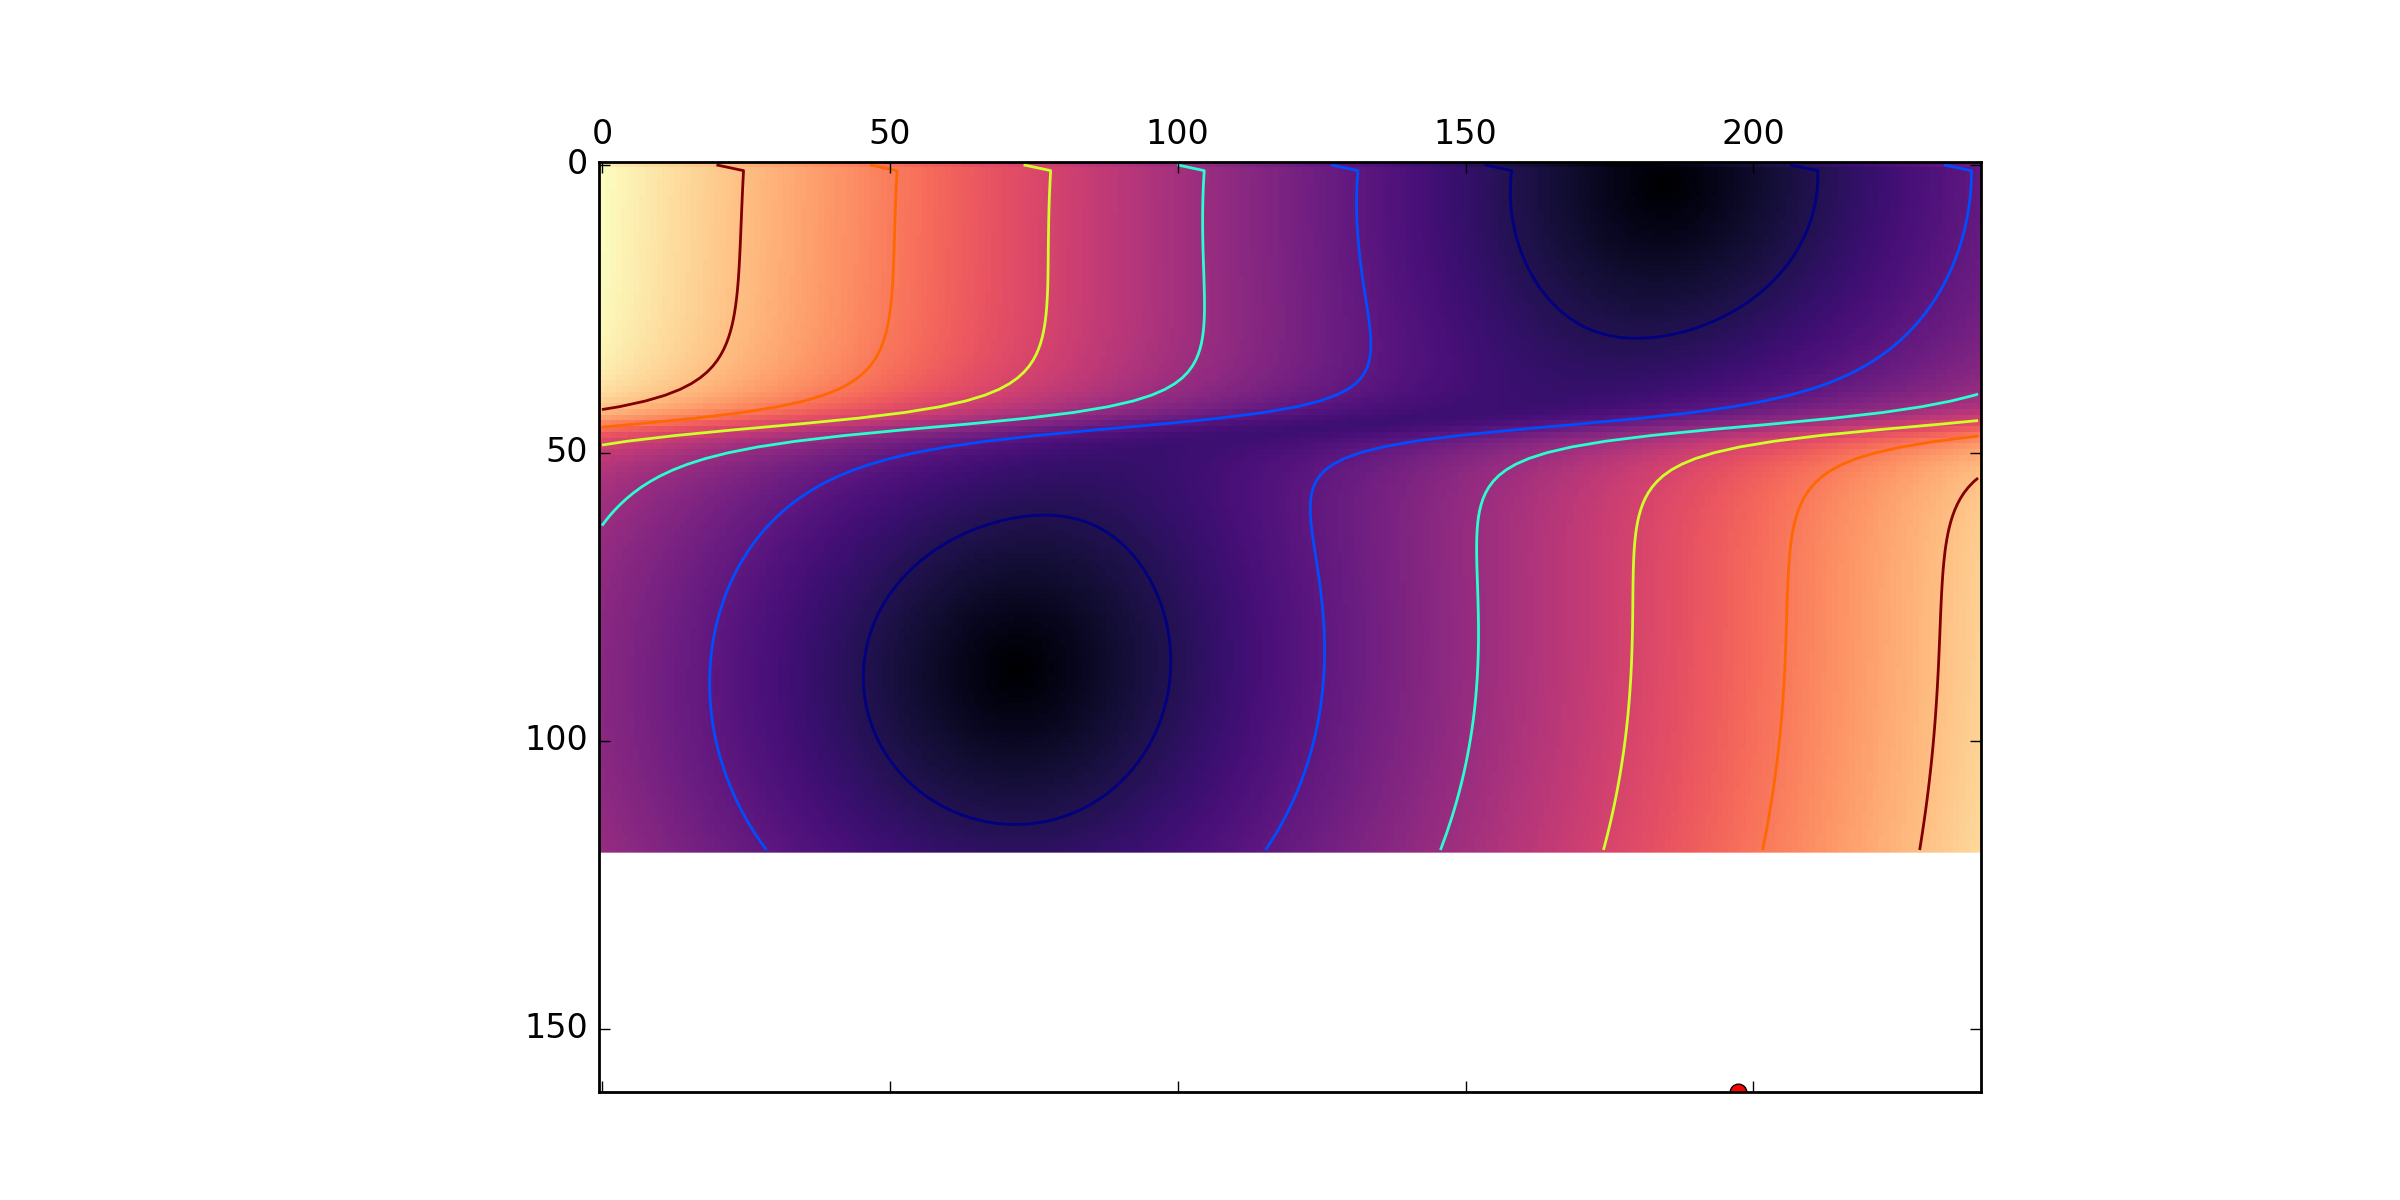
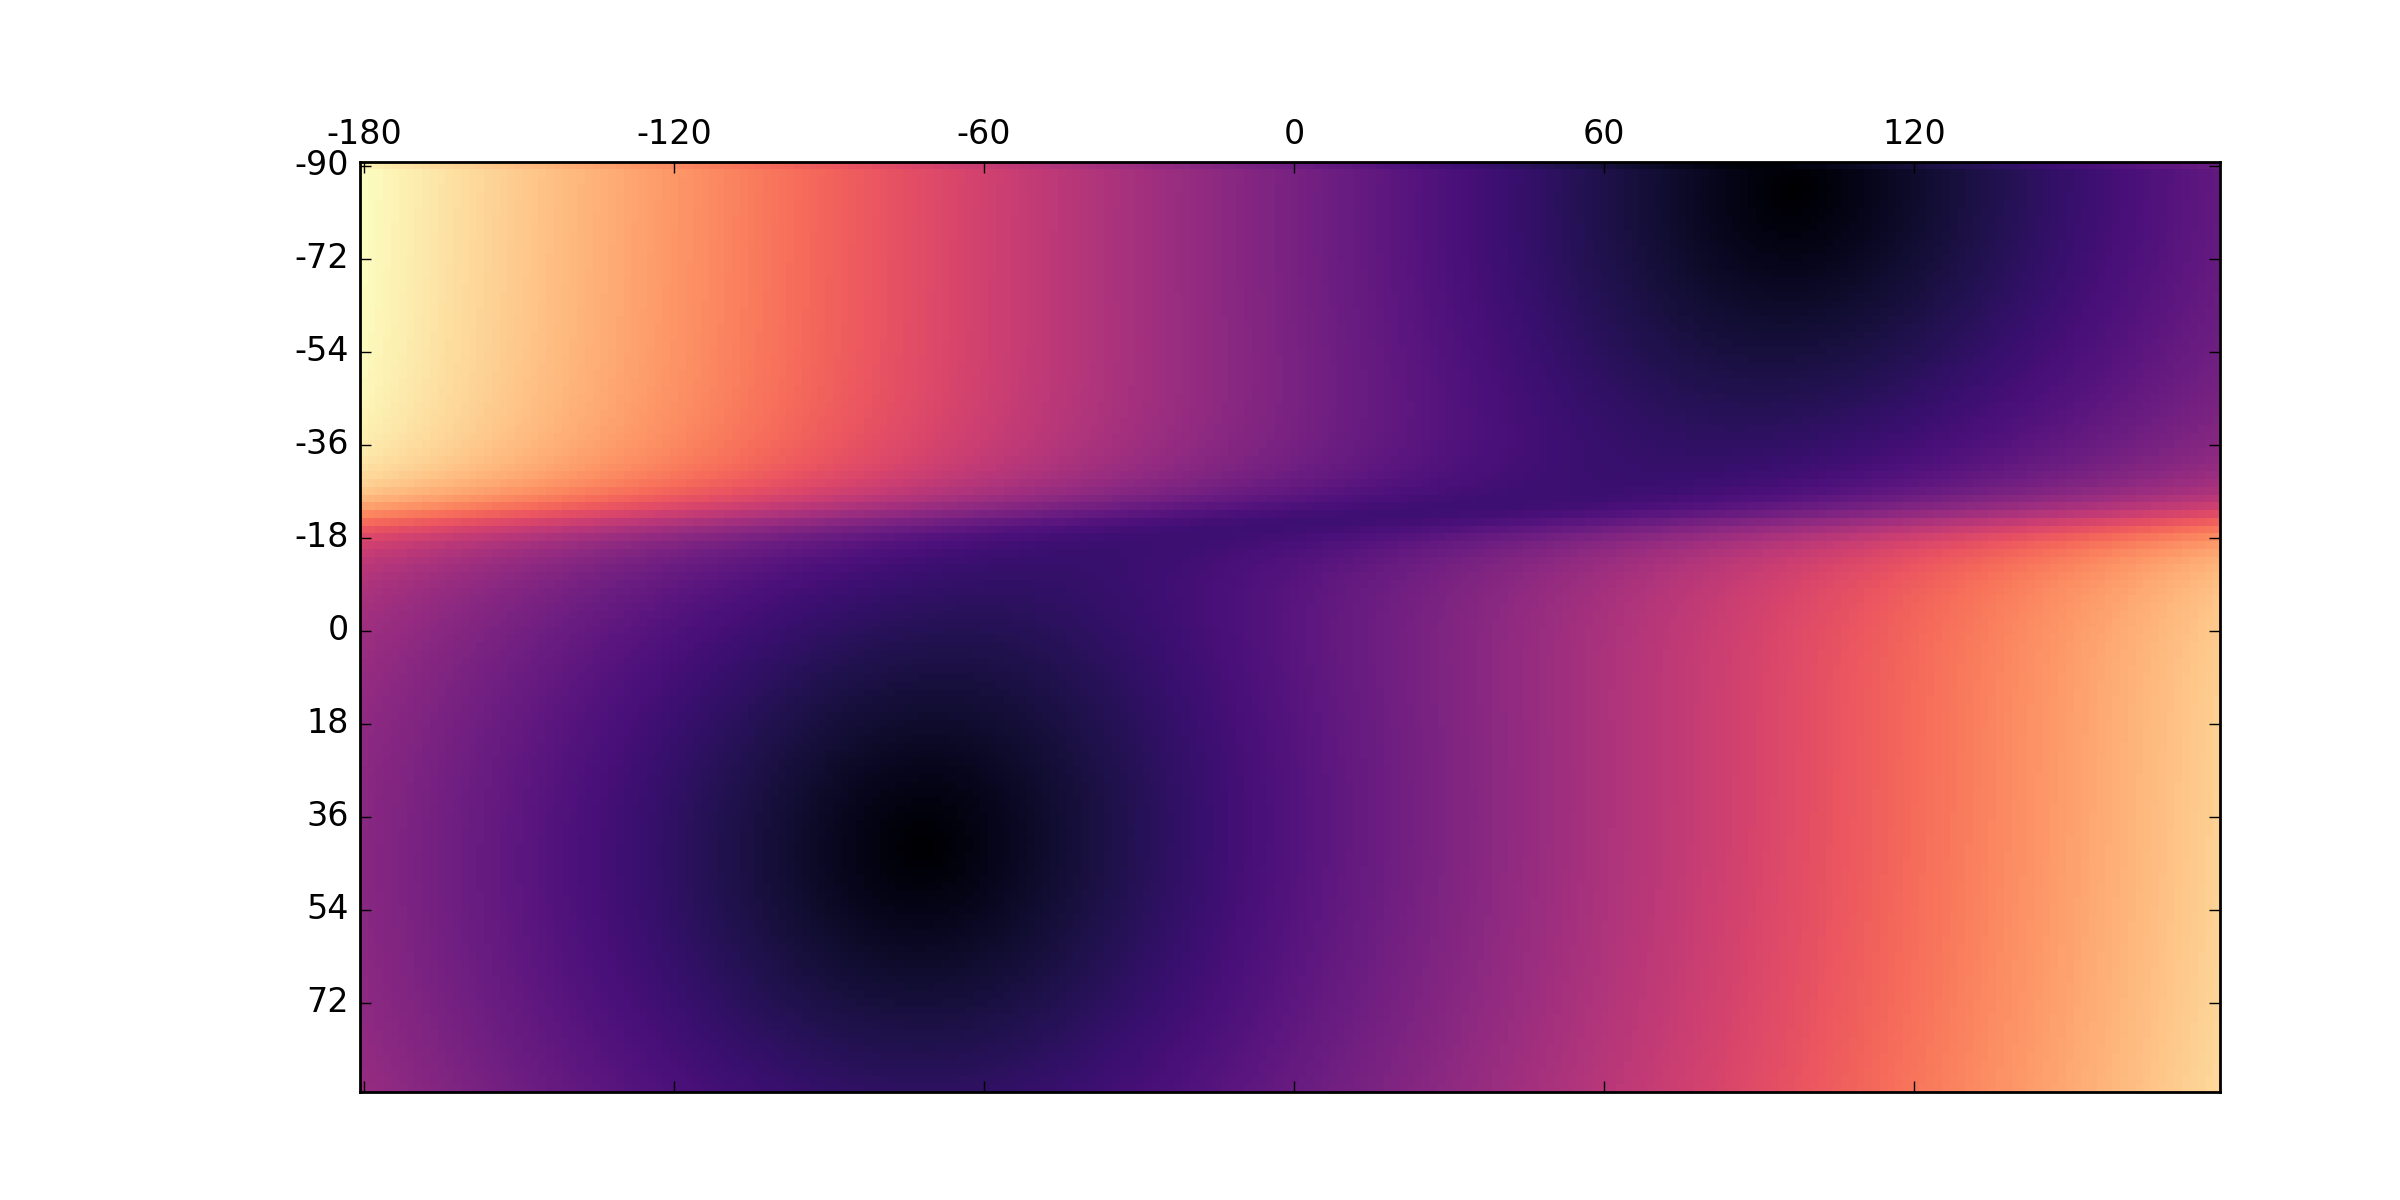
Blah

diff --git a/lab2/get_source.py b/lab2/get_source.py
@@ -106,11 +106,11 @@ def find_source(alt_az, lat_lon=local_latlong,
         source_name (str):
     """
 
-    alt, az = alt_az[0], alt_az[1]
-    lat, lon = lat_lon[0], lat_lon[1]
+    # alt, az = alt_az[0], alt_az[1]
+    # lat, lon = lat_lon[0], lat_lon[1]
 
     # my_loc = coordinates.EarthLocation.from_geodetic(lat, lon)
-    ra_dec = altaz_to_radec(alt_az, pos=local_latlong,
+    ra_dec = altaz_to_radec(alt_az, pos=lat_lon,
                             minute=minute, hour=hour, day=day,
                             month=month, year=year, tz_offset=5)
 
@@ -119,20 +119,20 @@ def find_source(alt_az, lat_lon=local_latlong,
     coords = coordinates.SkyCoord(ra=ra_dec[0], dec=ra_dec[1],
                                   unit=(u.deg, u.deg), frame='icrs')
     # Get the actual results
-    r = 100 * u.arcminute
+    r = 1000 * u.arcminute
     results = Vizier.query_region(coords, radius=r, catalog='V/50')[0]
     df = results.to_pandas()
 
-    candidate_sources = filter(None, [n for n in df['Name']])
+    candidate_sources = filter(None, [n for n in df['HD']])
     sources = []
     dmax, vmax = 0, 0
     for s in candidate_sources:
-        print s, '\n\n'
-        source_info = df.loc[df['Name'] == s]
-        print source_info['Vmag']
+        source_info = df.loc[df['HD'] == s]
         mag = round(float(source_info['Vmag']), 2)
-        source_ra_hms = tuple(map(float, source_info['RAJ2000'][0].split()))
-        source_dec_dms = tuple(map(float, source_info['DEJ2000'][0].split()))
+        temp_ra = source_info['RAJ2000'].tolist()[0]
+        temp_dec = source_info['DEJ2000'].tolist()[0]
+        source_ra_hms = tuple(map(float, temp_ra.split()))
+        source_dec_dms = tuple(map(float, temp_dec.split()))
 
         source_ra = Angle(source_ra_hms, unit='hourangle').degree
         source_dec = Angle(source_dec_dms, unit=u.deg).degree
@@ -140,23 +140,49 @@ def find_source(alt_az, lat_lon=local_latlong,
         dist_from_center = np.sqrt((source_ra - ra_dec[0])**2 +
                                    (source_dec - ra_dec[1])**2)
 
-        c1, c2 = 0.5, 0.5
-        score = c1 * mag + c2 * dist_from_center
-        source_dict = {'Name': source_info['Name'],
+        # score = c1 * mag + c2 * dist_from_center
+        source_dict = {'HD': source_info['HD'],
                        'RA': source_ra,
                        'DEC': source_dec,
                        'Distance': dist_from_center,
-                       'Vmag': source_info['Vmag'],
-                       'Score': score}
+                       'Vmag': source_info['Vmag']}
 
         sources.append(source_dict)
         dmax = dist_from_center if dist_from_center > dmax else dmax
         vmax = mag if mag > vmax else mag
 
-    sources_df = pd.DataFrame(sources)
-    best_source = sources_df[sources_df['score'] == sources_df['score'].min()]
+    c1, c2 = 0.5, 0.5
+    for s in range(len(sources)):
+        d = sources[s]['Distance']/dmax
+        mag = sources[s]['Vmag']/vmax
+        score = c1 * mag + c2 * d
+        sources[s]['Score'] = score
 
-    return sources_df
+
+    for s in candidate_sources:
+        source = df.loc[df['HD'] == s]
+        d = sources[s]['Distance']/dmax
+        mag = sources[s]['Vmag']/vmax
+        score = c1 * mag + c2 * d
+        sources[s]['Score'] = score
+
+
+    sources_df = pd.DataFrame(sources)
+
+    # Note that this loop is supremely janky, but df.loc'ing wasn't working.
+    # best_source = sources_df.loc[sources_df['Score'] == sources_df['Score'].min]
+    best_source_idx = 0
+    for i in range(len(sources)):
+        score = sources[i]['Score'].values[0]
+        if score < sources[best_source_idx]['Score'].values[0]:
+            best_source_idx = i
+
+    out = {'Coords': ra_dec,
+           'Name': 'HD' + str(int(sources[best_source_idx]['HD'].values[0])),
+           'Score': sources[best_source_idx]['Score'],
+           'Distance': sources[best_source_idx]['Distance']
+           }
+    return out
 
 
 
@@ -303,9 +329,19 @@ def find_location(source_name, source_alt_az,
         lat_coord = (90 + local_latlong[0]) * res
         long_coord = (180 + local_latlong[1]) * res
 
-        plt.matshow(score_grid, cmap='magma')
         plt.contour(score_grid)
         plt.plot([lat_coord], [long_coord], 'or')
+        plt.matshow(score_grid, cmap='magma')
+
+        xtick_locs = np.arange(0, len(longs), len(longs)/6)
+        xtick_labs = [int(longs[i]) for i in xtick_locs]
+        plt.xticks(xtick_locs, xtick_labs)
+
+        # plt.ylim(max(lats), min(lats))
+        ytick_locs = np.arange(0, len(lats), len(lats)/10)
+        ytick_labs = [int(lats[i]) for i in ytick_locs]
+        plt.yticks(ytick_locs, ytick_labs)
+
         plt.savefig(outname + '.png', dpi=200)
         plt.show(block=False)
 
